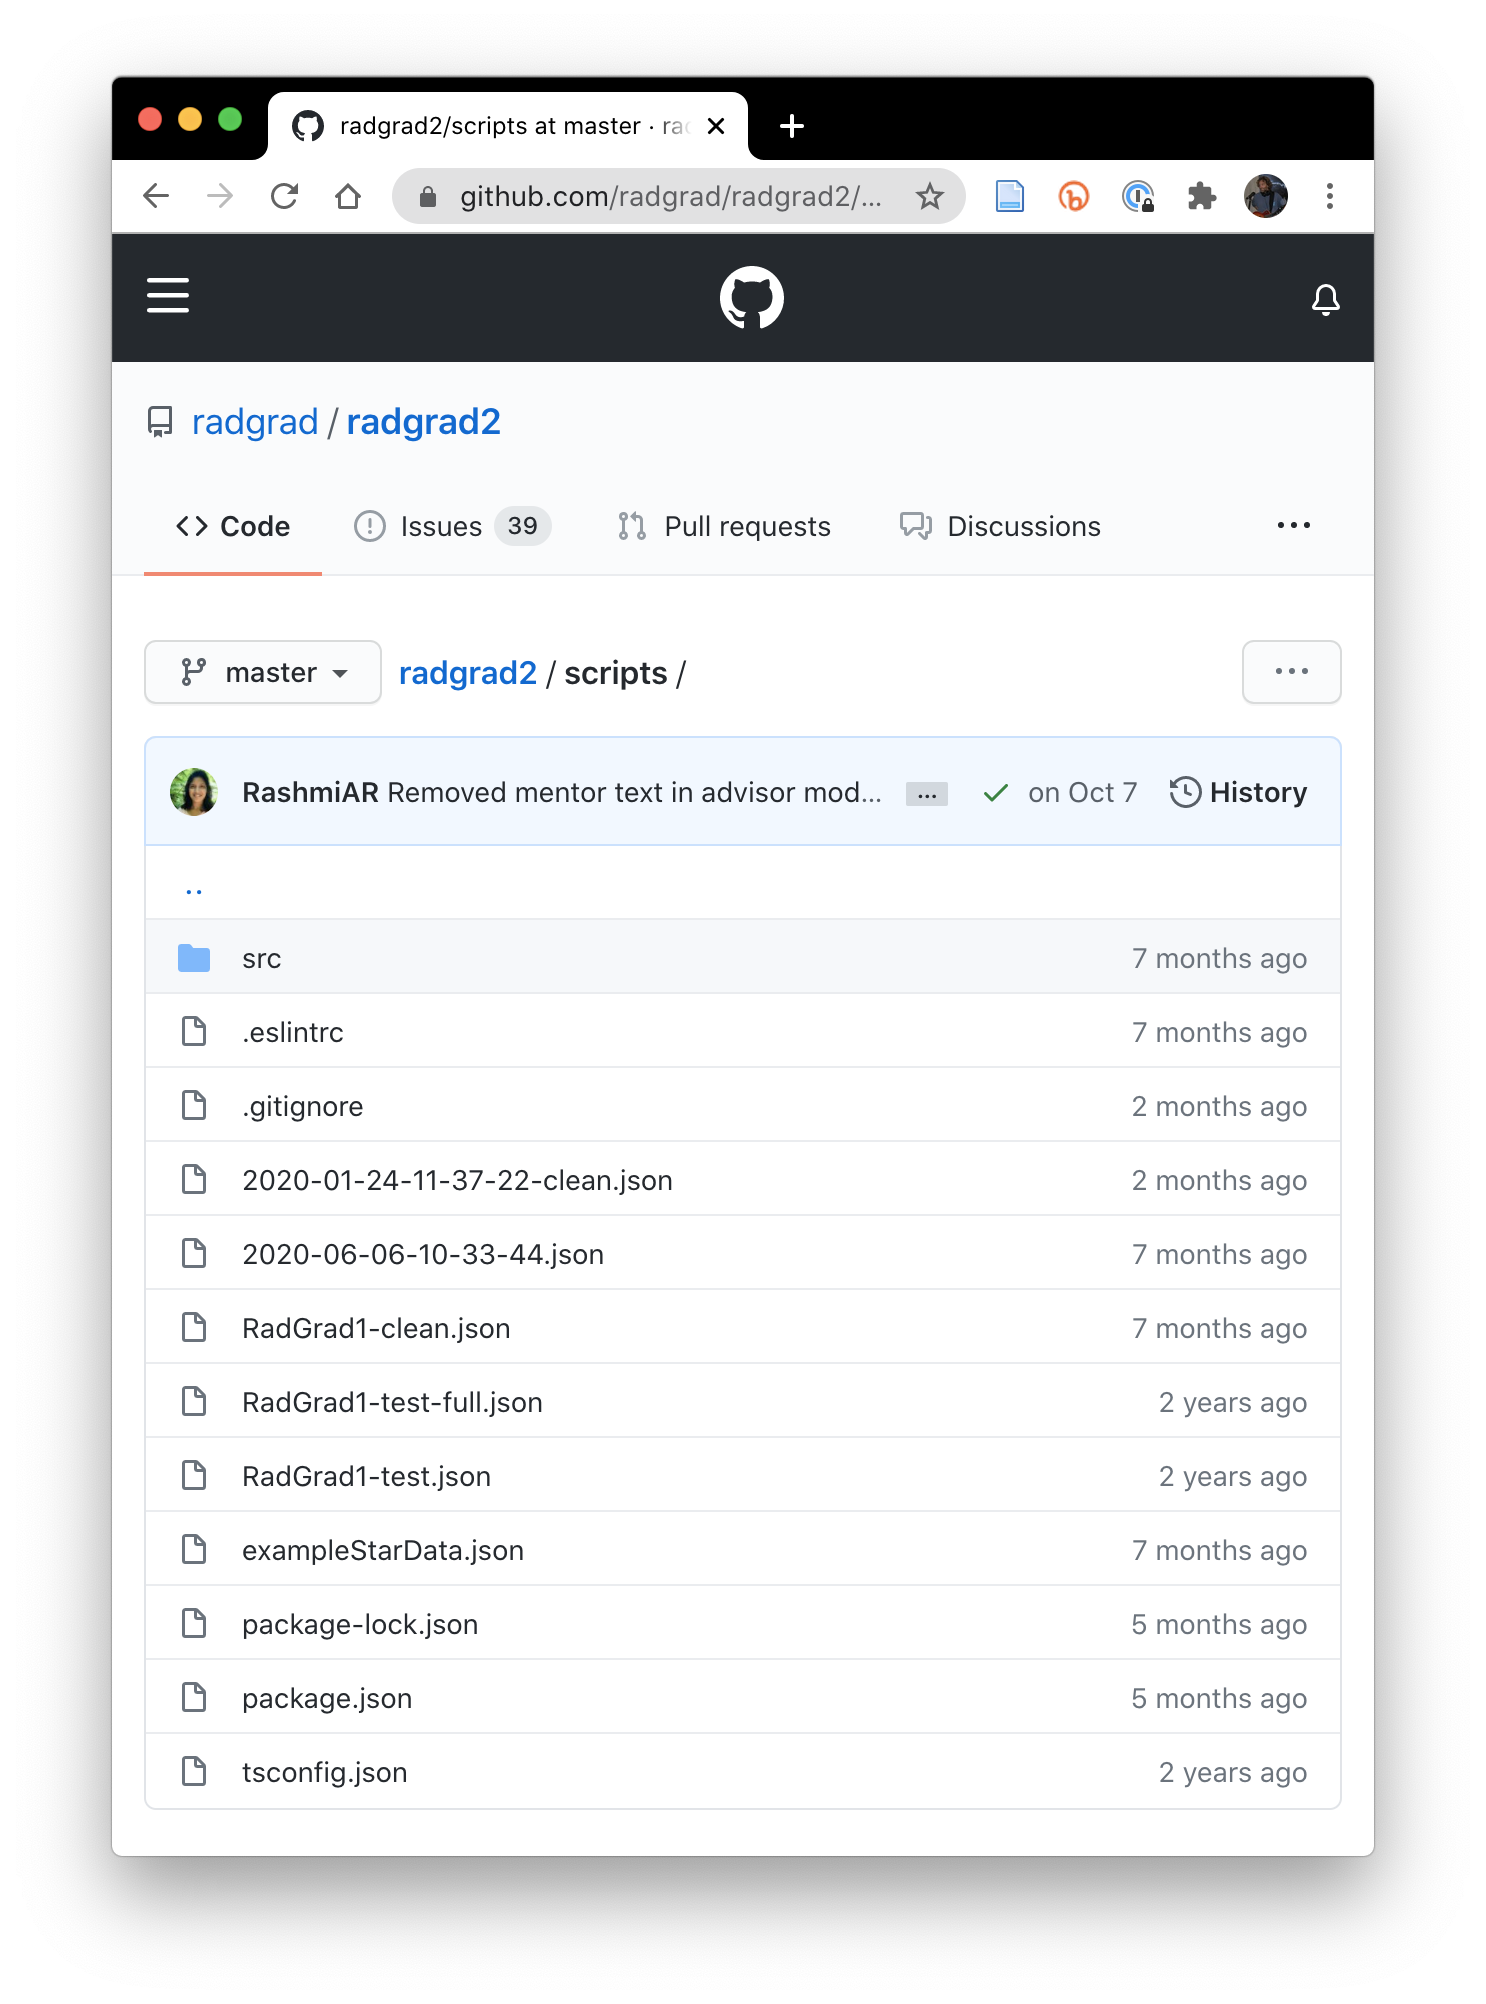
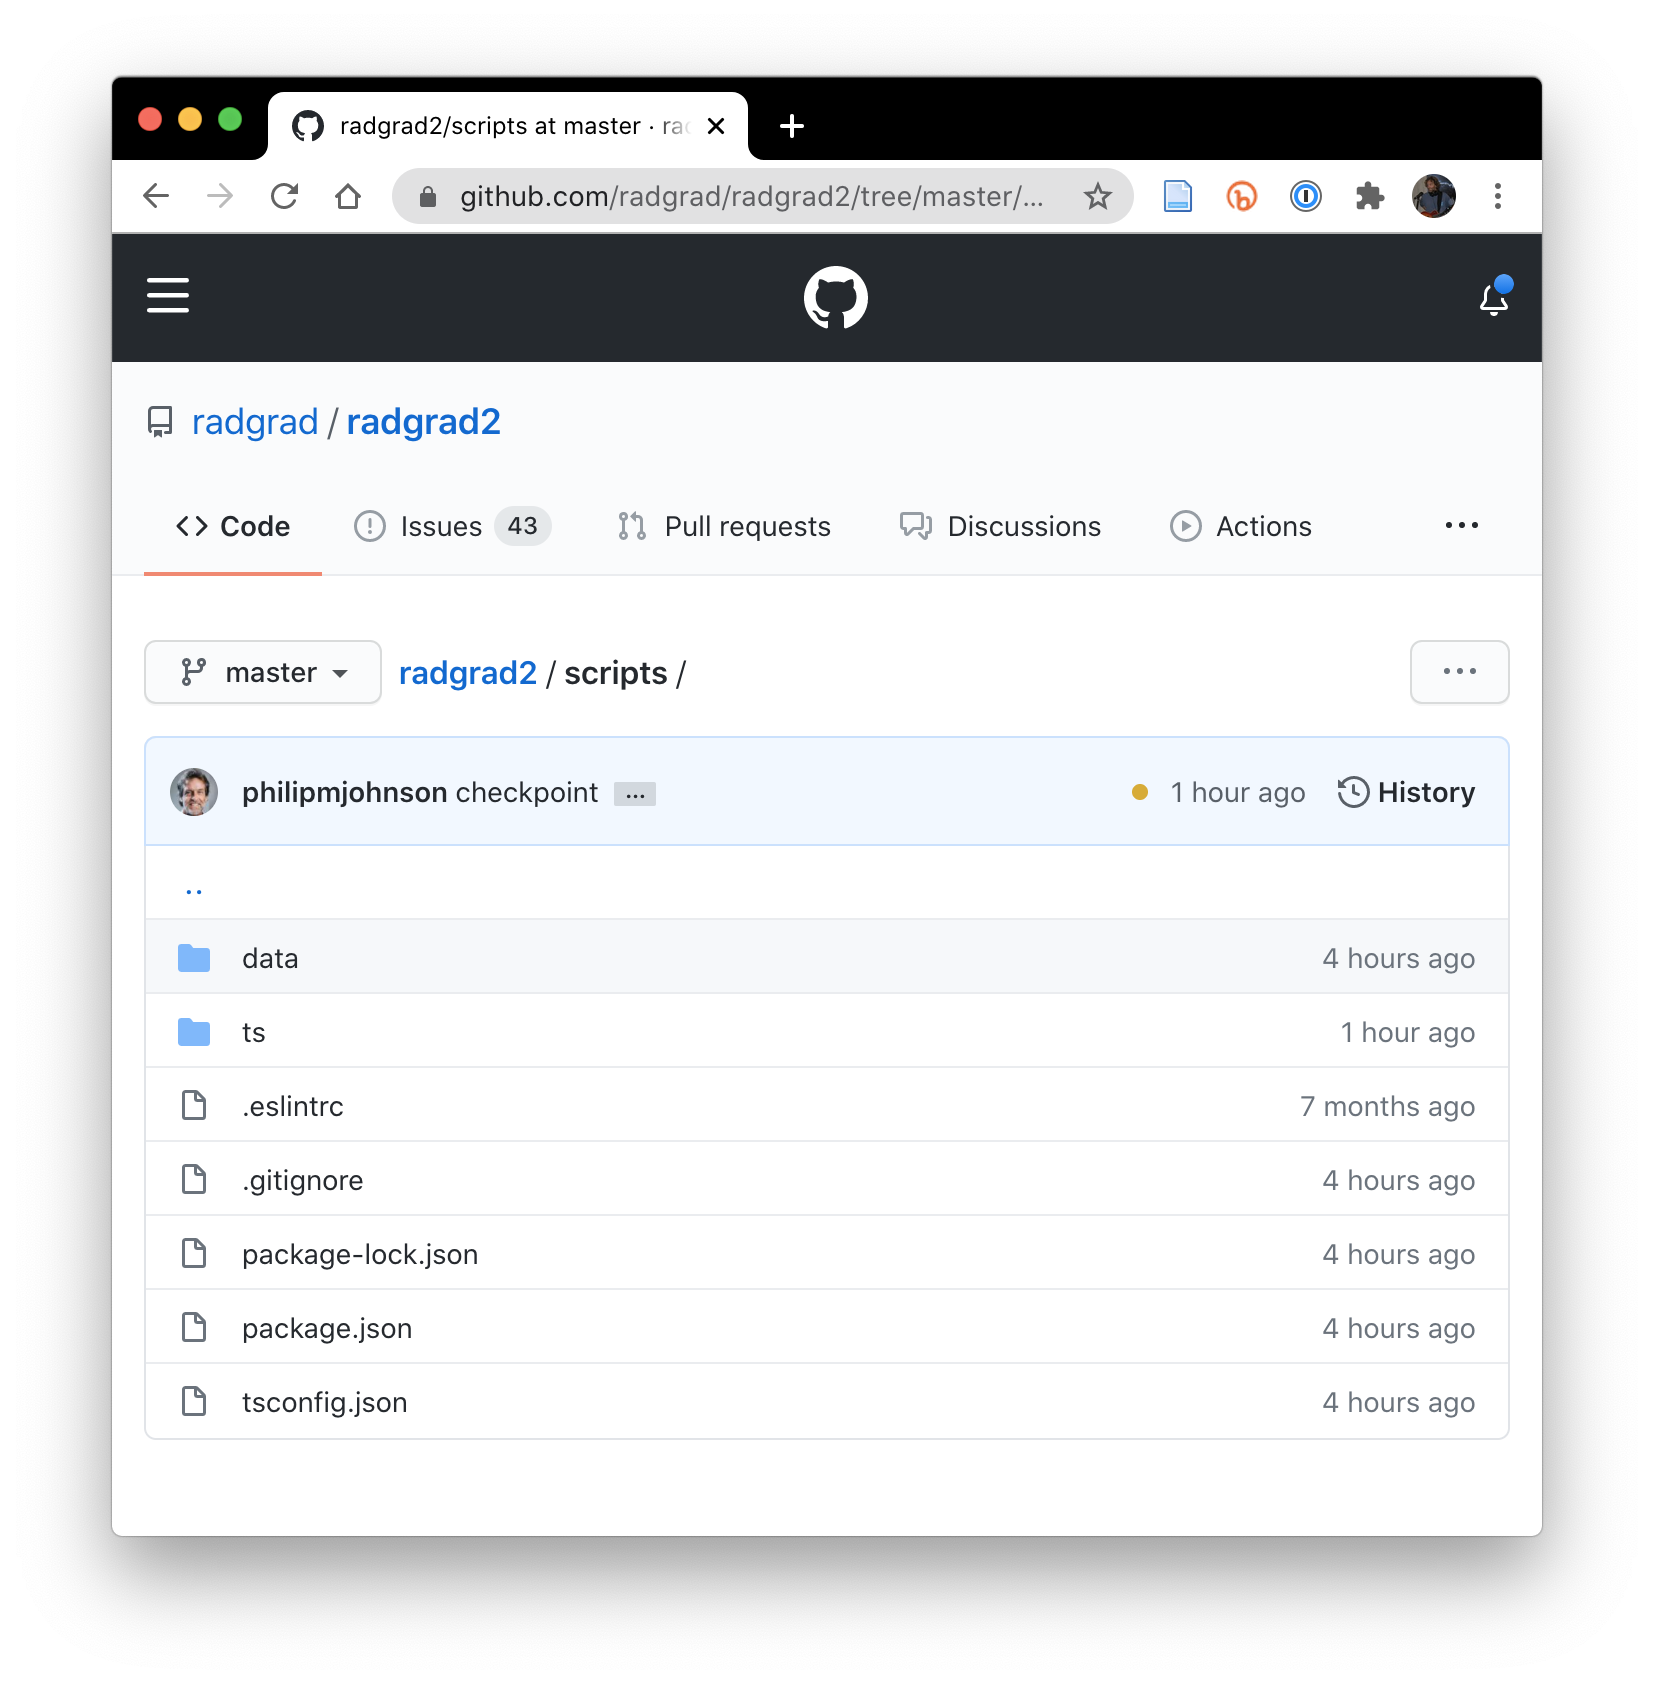
Update script documentation

diff --git a/docs/developers/design/scripts/overview.md b/docs/developers/design/scripts/overview.md
@@ -9,11 +9,18 @@ The `scripts/` directory contains supplemental programs for interfacing data to 
 
 <img src="/img/design/radgrad2/scripts.png" />
 
-## src/
+## ts/
 
-The app/ directory contains a subdirectory called src/, which contains the actual code for performing various tasks:
+The scripts/ directory contains a subdirectory called ts/, which contains the actual code for performing various tasks:
 
-<img src="/img/design/radgrad2/scripts-src.png" />
+<img src="/img/design/radgrad2/scripts-ts.png" />
+
+## data/
+
+There is also a directory called data/, where some sample data sets (not containing any student PII) are available:
+
+<img src="/img/design/radgrad2/scripts-data.png" />
+
 
 ## Installation
 
@@ -51,7 +58,7 @@ found 0 vulnerabilities
 $
 ```
 
-Now run `npm run tsc` to compile the Typescript files into Javascript and place them into the dist/ directory:
+Now run `npm run tsc` to compile the Typescript files into Javascript and place them into a new, gitignored directory called js/:
 
 ```sh
 $ npm run tsc
@@ -62,18 +69,102 @@ $ npm run tsc
 $
 ```
 
+Here is the contents of the js/ directory built by running the tsc script:
+
+<img src="/img/design/radgrad2/scripts-js.png" />
+
+
 ## Running scripts
 
-To invoke a script, invoke node, passing the appropriate script from the dist directory and perhaps any required arguments.  For example:
+To invoke a script, invoke node, passing the appropriate script from the js/ directory and perhaps any required arguments.  For example:
 
 ```sh
-$ node dist/analyze-data-dump.js RadGrad1-clean.json
+$ node js/analyze-data-dump.js data/RadGrad1-clean.json
 Student, Session Count, Session Lengths, Shortest, Longest, Total Time, Average
 
 $
 ```
 
 The above script does not do produce results for this sample data file because the data file does not contain student data. However, this example does show that the script can be invoked and return some results without error.
+
+## Script documentation
+
+Each script has some minimal documentation made available by calling it with the --help parameter. For reference purposes, here is the output from these scripts at the time of writing. Run the command again for updated documentation if available.
+
+### analyze-data-dump
+
+```
+$ node js/analyze-data-dump.js --help
+Usage: analyze-data-dump [options] <dumpfile>
+
+Parse a RadGrad1 database dump file to generate statistics on student usage.
+
+Arguments:
+  dumpfile    A RadGrad1 database dump file
+
+Options:
+  -h, --help  display help for command
+```
+
+### convert-dump
+
+```
+$ node js/convert-dump.js --help
+Usage: convert-dump [options] <radgrad1DumpFile> <outFileName>
+
+Parse a RadGrad1 dump file and create a new one in RadGrad2 format.
+
+Arguments:
+  radgrad1DumpFile  A pre-existing RadGrad1 database dump file
+  outFileName       The name of the RadGrad2 database dump file to be created
+
+Options:
+  -h, --help        display help for command
+```
+
+### create-star-download
+
+```
+$ node js/create-star-download.js --help
+Usage: create-star-download [options] <starDataFile>
+
+Parse a STAR data file and output a JSON string with RadGrad student and courseInstance data.
+
+Arguments:
+  starDataFile  A file containing STAR data produced by the download-bulk-start-json script.
+
+Options:
+  -h, --help    display help for command
+```
+
+### download-bulk-star-json
+
+```
+$ node js/download-bulk-star-json.js --help
+Usage: download-bulk-star-json [options]
+
+Request user, password, and email info, then download STAR data. emails.txt must have student email addresses, one per line.
+
+Options:
+  -h, --help  display help for command
+```
+
+### manage-fixture
+
+```
+$ node js/manage-fixture.js --help
+Usage: manage-fixture [options] <fixtureFile>
+
+Extract the academic years referenced in a fixture file. Print results to console.
+
+Arguments:
+  fixtureFile  A file containing RadGrad1 data.
+
+Options:
+  -h, --help   display help for command
+```
+
+
 
 
 
